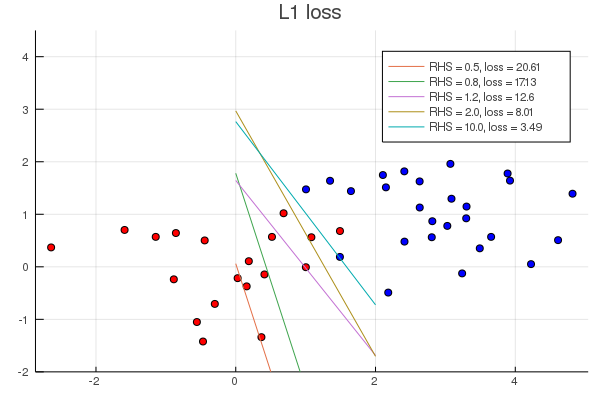
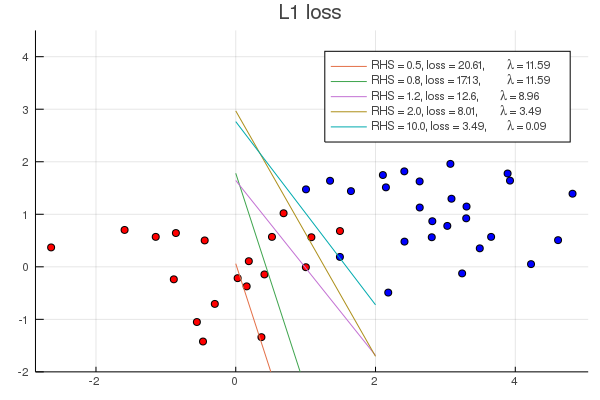
add dual of constraint

Changed region(s): [[0.54, 0.12, 0.93, 0.36]]

diff --git a/README.md b/README.md
@@ -13,6 +13,9 @@ penalties are implemented as constraints directly.
 ```julia
 import Random
 import SimpleSVMs
+import Plots
+using JuMP
+import Clp
 
 Random.seed!(42)
 X = vcat(randn(20, 2), randn(30,2) .+ [3.0,1.5]')
@@ -22,28 +25,32 @@ p = Plots.scatter(X[:,1], X[:,2], color = [yi > 0 ? :red : :blue for yi in y], l
 Plots.yaxis!(p, (-2, 4.5))
 for rhs in [0.5, 0.8, 1.2, 2.0, 10.0]
    global X, y
-   (m, w, b) = SimpleSVMs.build_svm(SimpleSVMs.L1Penalty(rhs), X, y, with_optimizer(Clp.Optimizer, LogLevel = 0))
+   (m, w, b, penalty_cons) = SimpleSVMs.build_svm(SimpleSVMs.L1Penalty(rhs), X, y, with_optimizer(Clp.Optimizer, LogLevel = 0))
    optimize!(m)
    loss = JuMP.objective_value(m)
+   λ = -JuMP.dual(penalty_cons)
    wv = JuMP.value.(w)
    bv = JuMP.value(b)
    @info "$wv $bv"
-   Plots.plot!(p, [0.0, 2.0], [-bv / wv[2], (-bv - 2wv[1])/wv[2]], label = "RHS = $(rhs), loss = $(round(loss, digits=2))")
+   Plots.plot!(p, [0.0, 2.0], [-bv / wv[2], (-bv - 2wv[1])/wv[2]], label = "RHS = $(rhs), loss = $(round(loss, digits=2)), \\lambda = $(round(λ, digits=2))")
 end
 Plots.title!(p, "L1 loss")
 Plots.savefig("example_l1.png")
+
+import Ipopt
 
 p = Plots.scatter(X[:,1], X[:,2], color = [yi > 0 ? :red : :blue for yi in y], label = "")
 Plots.yaxis!(p, (-2, 4.5))
 for rhs in [0.5, 0.8, 1.2, 2.0, 10.0]
    global X, y
-   (m, w, b) = SimpleSVMs.build_svm(SimpleSVMs.L2Penalty(rhs), X, y, with_optimizer(Ipopt.Optimizer))
+   (m, w, b, penalty_cons) = SimpleSVMs.build_svm(SimpleSVMs.L2Penalty(rhs), X, y, with_optimizer(Ipopt.Optimizer))
    optimize!(m)
    loss = JuMP.objective_value(m)
+   λ = -JuMP.dual(penalty_cons)
    wv = JuMP.value.(w)
    bv = JuMP.value(b)
    @info "$wv $bv"
-   Plots.plot!(p, [0.0, 2.0], [-bv / wv[2], (-bv - 2wv[1])/wv[2]], label = "RHS = $(rhs), loss = $(round(loss, digits=2))")
+   Plots.plot!(p, [0.0, 2.0], [-bv / wv[2], (-bv - 2wv[1])/wv[2]], label = "RHS = $(rhs), loss = $(round(loss, digits=2)), \\lambda = $(round(λ, digits=2))")
 end
 Plots.title!(p, "L2 loss")
 Plots.savefig("example_l2.png")
